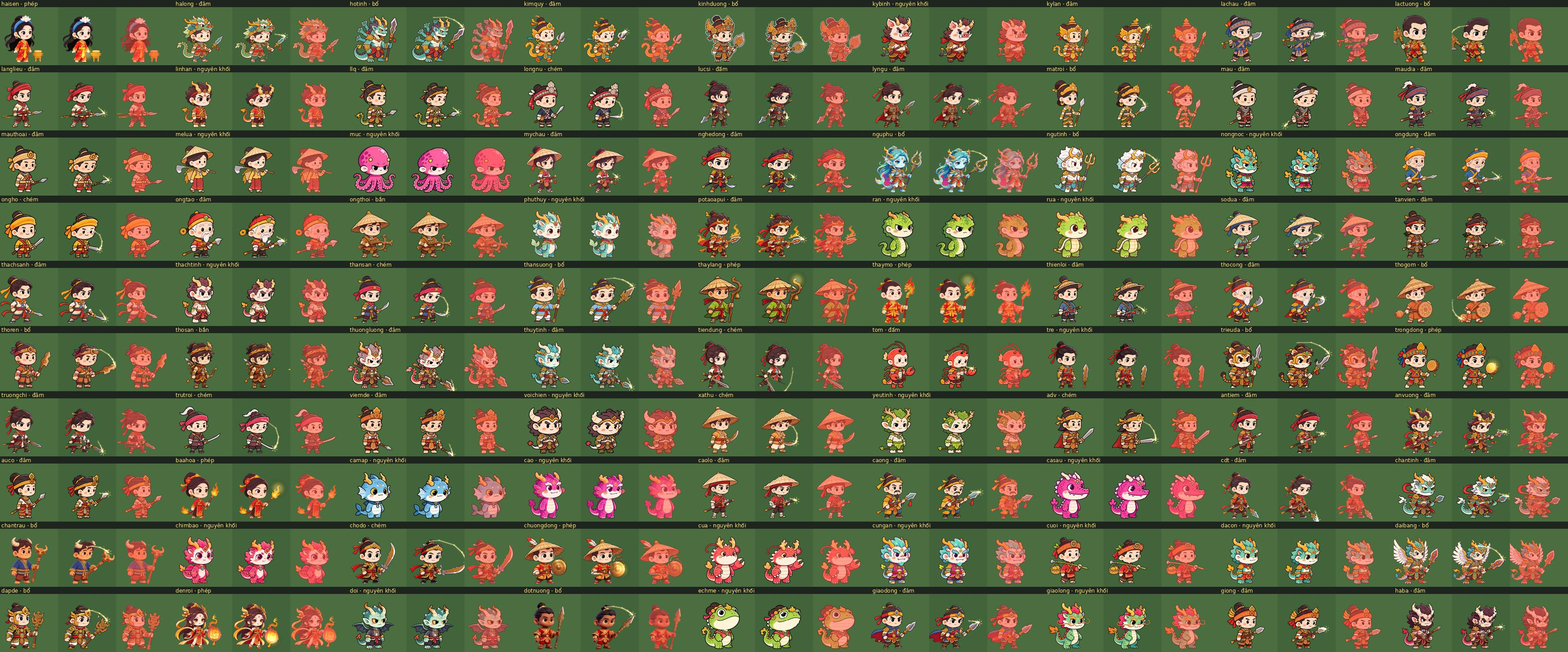
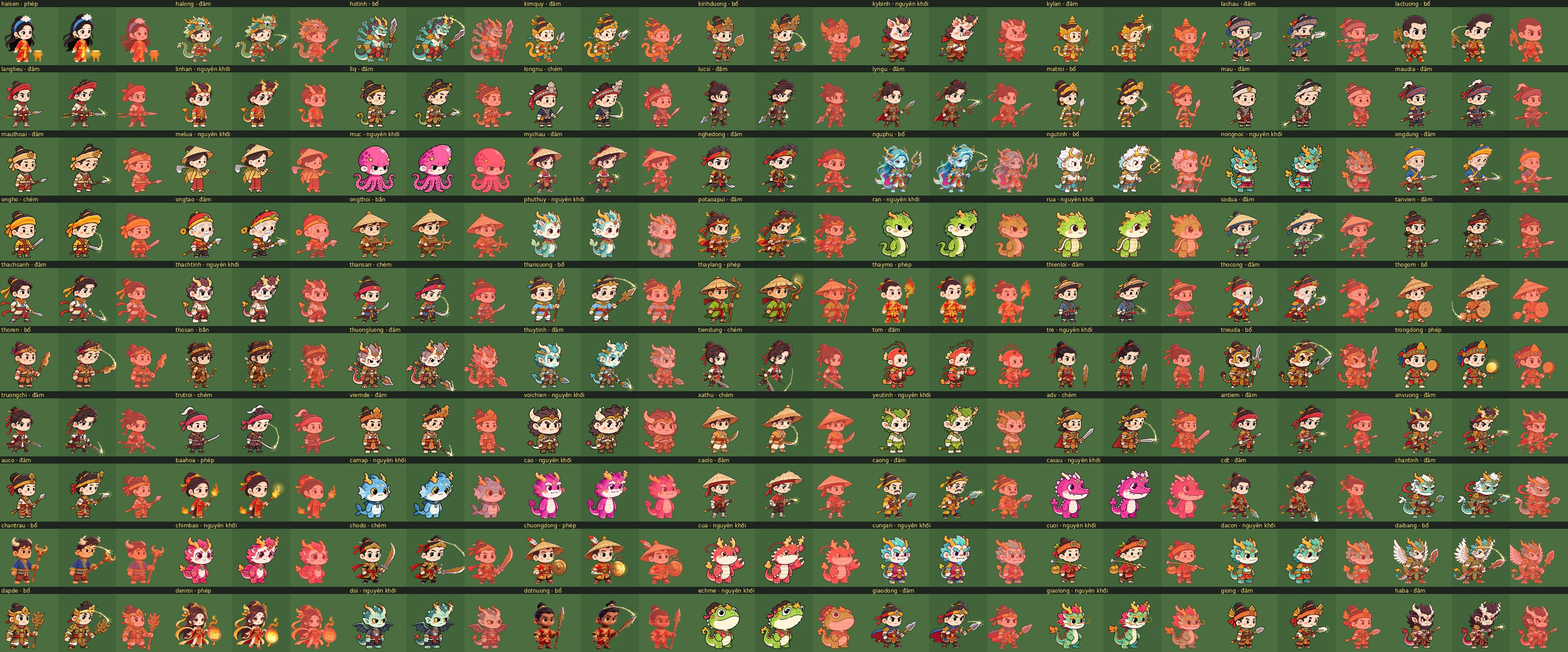
Xem trước kinhduong theo ảnh đã bóc viền trắng (nhánh tu-cu-dong)
Claude-Session: https://claude.ai/code/session_01NV47rJjo3urGWwEjFmZDqi

diff --git a/docs/xem-truoc-cu-dong/README.md b/docs/xem-truoc-cu-dong/README.md
@@ -73,7 +73,7 @@ Khớp game: anvuong, giaodong, giong, haba, denroi (đèn lồng → phép), la
 
 ## Tách nền khó
 - **muc**: thân hồng trùng màu nền — giữ được thân, còn vài lỗ nhỏ trong xúc tu và 1 mảng hồng nhỏ giữa xúc tu phải.
-- **kinhduong**: viền trắng kiểu sticker (giữ nguyên), 1 chấm hồng nhỏ dưới chân.
+- **kinhduong**: viền trắng kiểu sticker — nhánh tu-cu-dong đã bóc viền (giữ khung, rig vẫn khớp).
 - **potaoapui**: giữ lửa dính thân / giáo, bỏ tia lửa và dấu ✦ rời.
 - **haisen**: lư đồng đặt cạnh (rời thân) — giữ lại, đứng yên.
 
